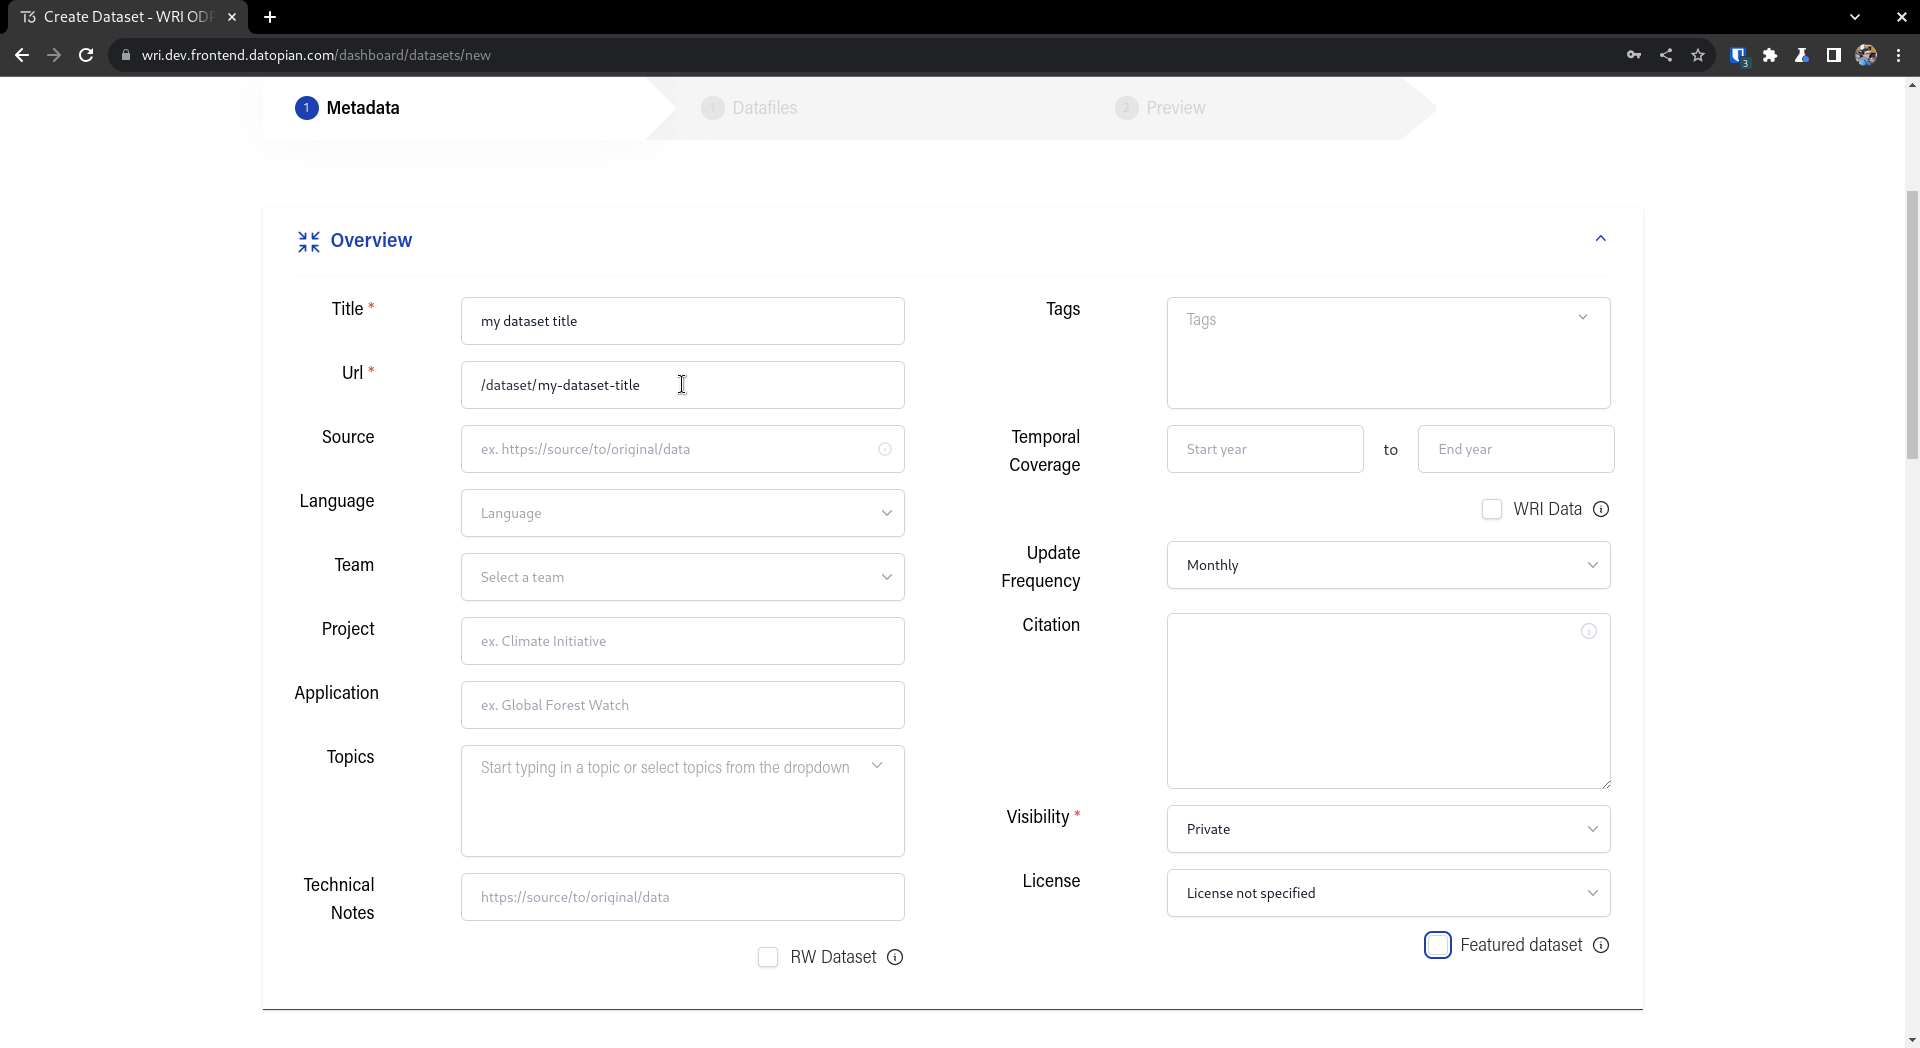
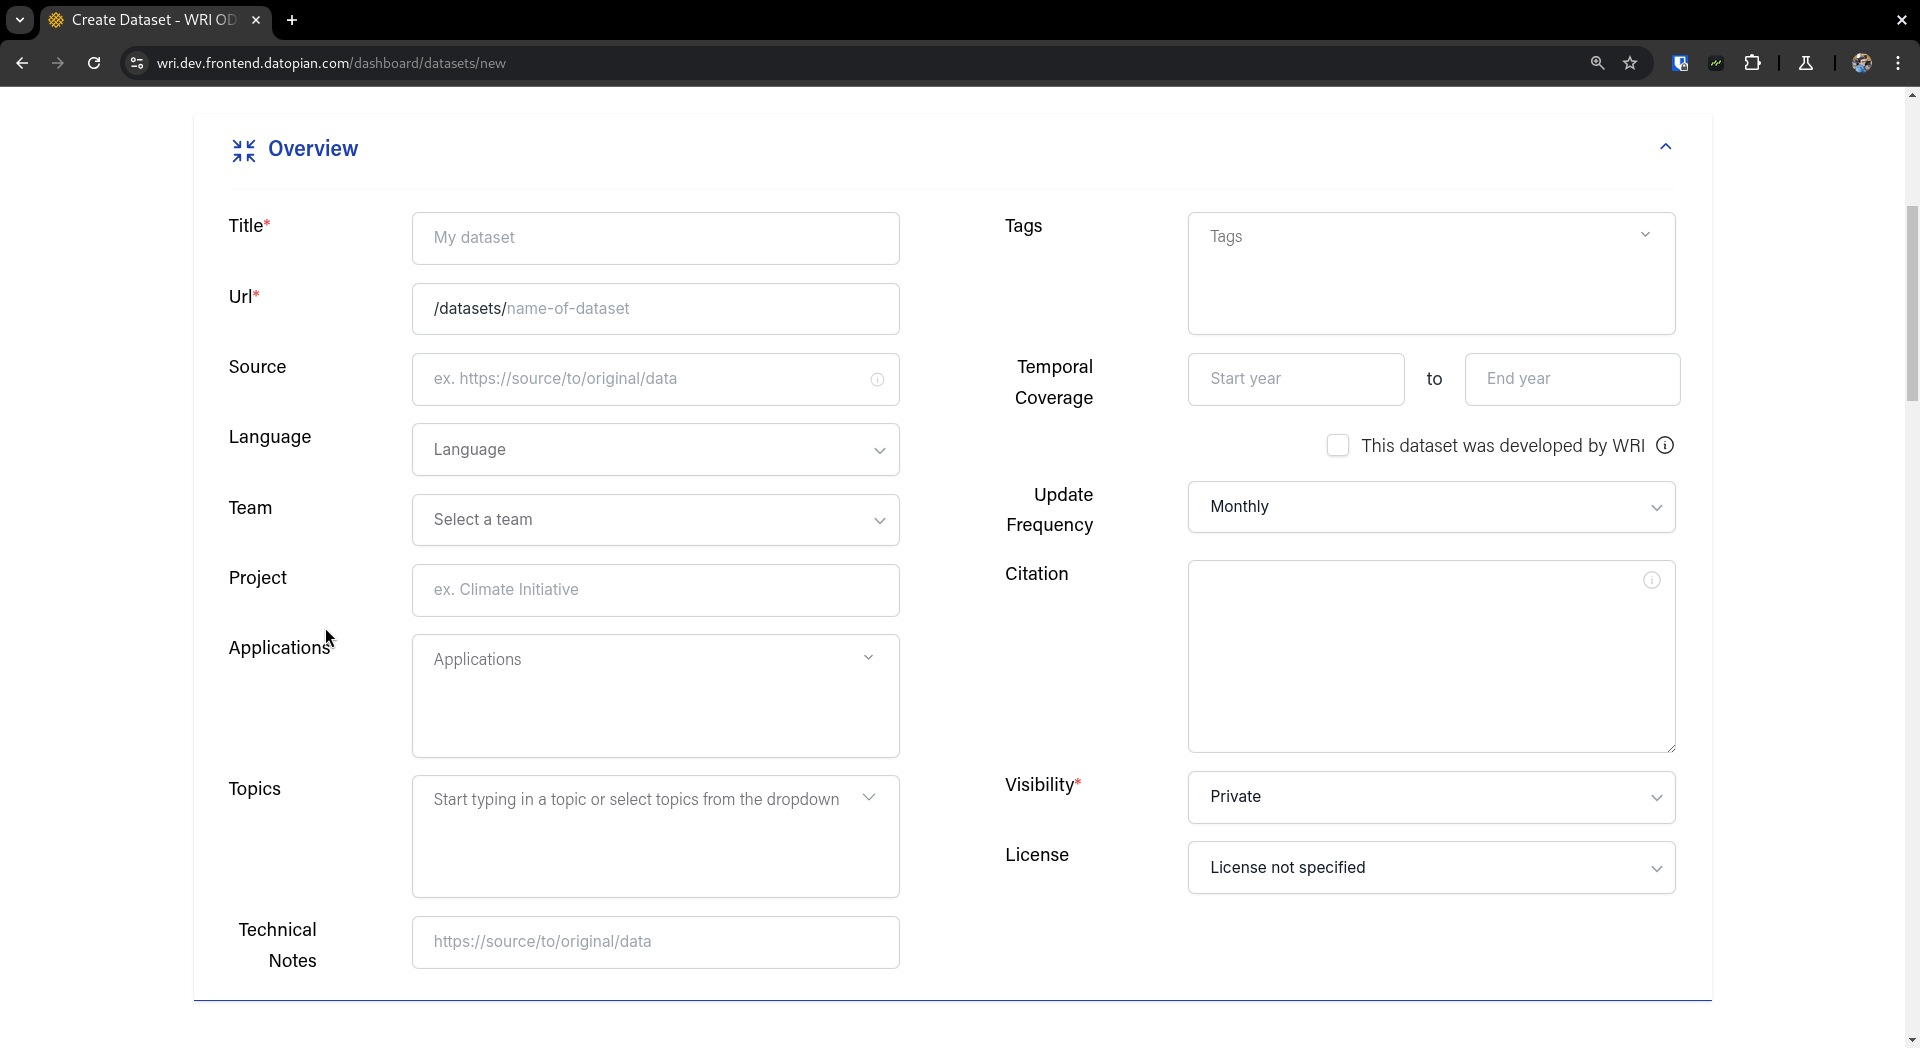
Applications docs

diff --git a/docs/applications/README.md b/docs/applications/README.md
@@ -1,0 +1,42 @@
+# APPLICATIONS
+
+## Create Application
+
+You can create a application in the `/dashboard/applications/new` route where you can define
+
+- Title for the application
+- URL for the application, which is going to act as an ID for the application, and act as URL in the public pages such `/applications/{application url}`
+- Description for the application
+- You can also upload an image to act as a logo or featured image for the application
+- A Homepage URL for the application
+- A Contact URL for the application
+- A Help URL for the application
+
+The page looks like this
+
+![New application page](./create.png)
+
+## Edit Application
+
+You can edit a application by going to `/dashboard/applications/{application url}/edit` or by clicking on the yellow icon in the applications list like in the image below
+
+![All applications page](./list.png)
+
+Once you go there you can change all the fields that were defined in the new application except the `url` which needs to stay the same for the integrity of the system's sake
+
+![Edit application page](./edit.png)
+
+In this edit page, you can also delete by clicking on the "Delete Button" which should open up a modal for confirmation
+
+![Delete application modal](./delete.png)
+
+## Application Discovery
+
+Application discovery `/applications`. contains all available applications
+
+![Applications](./applications.png)
+
+Applications are searchable and paginated. clicking on any of the applications leads to their individual details
+page, containing their associated datasets
+
+![Application page](./oneapplication.png)

diff --git a/docs/datasets/README.md b/docs/datasets/README.md
@@ -20,6 +20,17 @@ Obs: Fields that have a red * are required
 
 Where the main metadata fields are defined
 
+Here you can define things like
+
+- The title of the dataset
+- The name of the dataset, which will be used in the url
+- You can attach tags, topics, applications to the dataset
+- You can define the team to which that dataset will belong
+- Define the visibility
+- Technical notes, caution, citation, update frequency and other fields
+
+![overview](./overview.png)
+
 If you select the `featured dataset` checkbox an image uploader will appear where you can define a thumbnail for your dataset
 
 ![Featured dataset](./featured_dataset.png)
